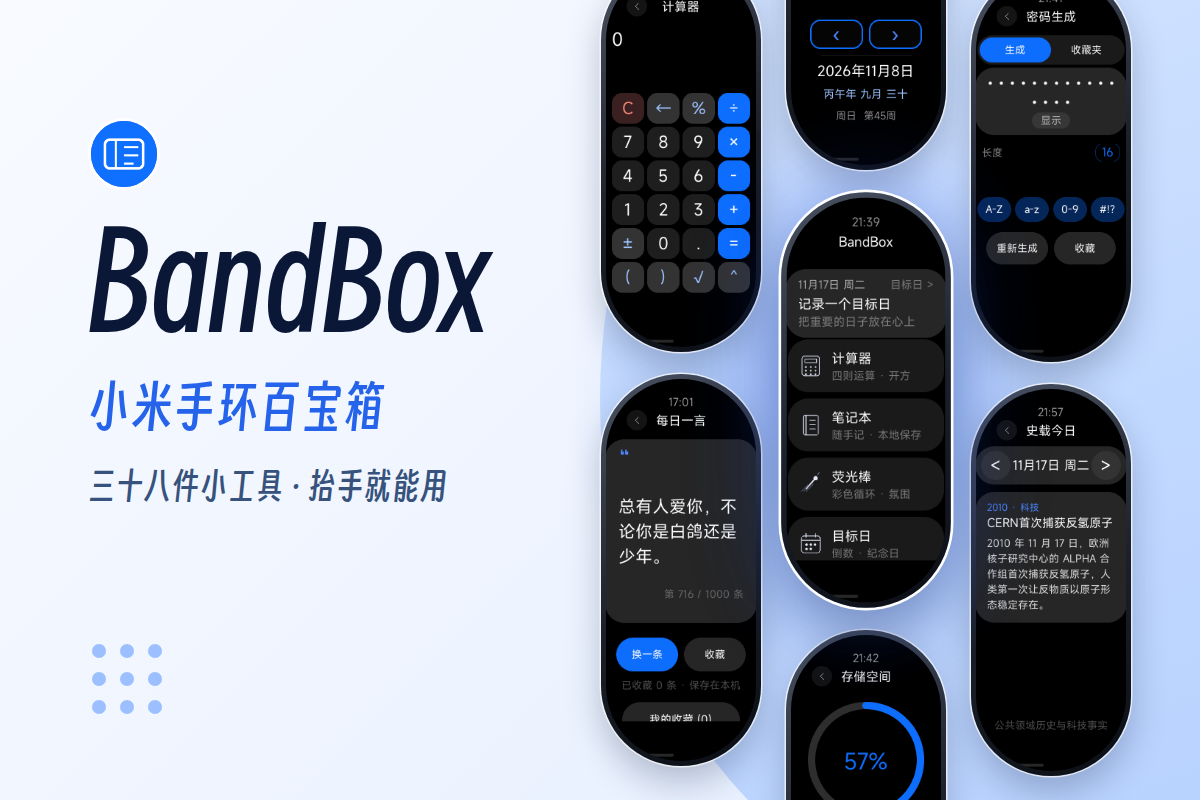
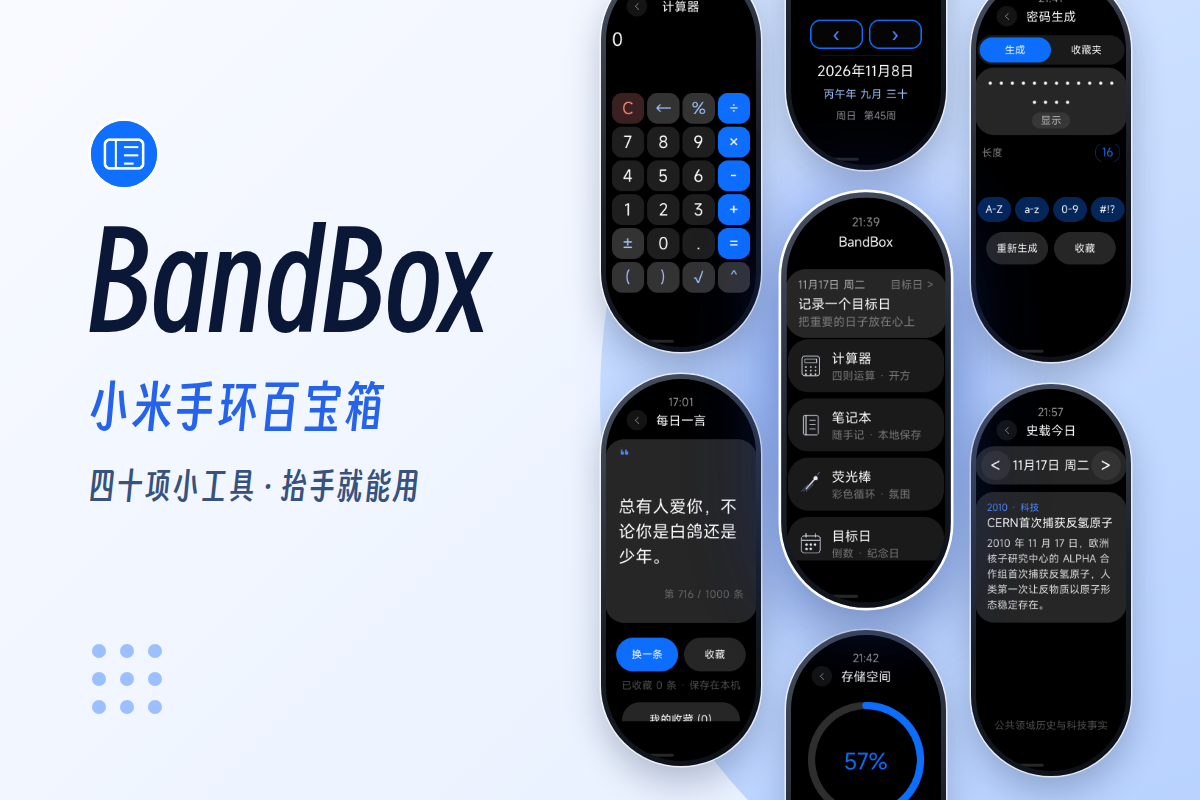
docs(release): 0.1.1/0.1.2 发布说明工具数订正 + 头图定稿
- 工具数口径统一为 src/data/apps.js 的 40：0.1.0 正式版 32 → 0.1.0 Beta 线 37 →
  0.1.1 = 37（未加工具）→ 0.1.2 = 40（魔方计时 / 桌面伴侣 / 快捷色卡）
- 头图 1200x800 重出（与控制台上传的 media/ 头图同一份字节）

Changed region(s): [[0.1233, 0.5625, 0.37, 0.625], [0.0617, 0.5938, 0.0925, 0.625]]

diff --git a/BandBox 头图 1200x800.html b/BandBox 头图 1200x800.html
@@ -206,7 +206,7 @@
 
       <div class="cn-title">小米手环百宝箱</div>
 
-      <p class="subtitle">三十八件小工具 · 抬手就能用</p>
+      <p class="subtitle">四十项小工具 · 抬手就能用</p>
     </div>
 
     <div class="dot-grid">

diff --git a/release/BandBox-0.1.2/说明.md b/release/BandBox-0.1.2/说明.md
@@ -9,7 +9,7 @@
 
 > **本版定位**：`0.1.1`（换源后的正式发行版）之后的第一个功能版本，也是**第一个三机型正式发行版** —— 小米手环 9 / 10 / 10 NFC / 11 / 11 NFC（212×520 跑道屏）、小米手环 9 Pro / 10 Pro（336×480 矩形屏）、小米手环 9（192×490 胶囊屏）各一个 rpk，包名同为 `com.lkjhg.bandbox`，按机型选用。
 >
-> 四条主线：① **体感内核重构**（就绪判定从相对夹角改成绝对姿态）并长出「魔方计时」；② 新增「**桌面伴侣**」横屏时钟（自适应双版式 + 电量徽标 + 秒钟开关）与「**快捷色卡**」，工具总数 38 → **40**；③ 首页新增「**工具分类**」与「**目标日不常驻**」两种布局；④ **包体瘦身** —— 拆除 12 页内联输入法、合并 3 个二级页、新增统一数字键盘页，生产包比瘦身前小 **139 KB**。
+> 四条主线：① **体感内核重构**（就绪判定从相对夹角改成绝对姿态）并长出「魔方计时」；② 新增「**桌面伴侣**」横屏时钟（自适应双版式 + 电量徽标 + 秒钟开关）与「**快捷色卡**」，工具总数较 0.1.1 的 **37** 个新增 3 个（魔方计时 / 桌面伴侣 / 快捷色卡）→ **40**；③ 首页新增「**工具分类**」与「**目标日不常驻**」两种布局；④ **包体瘦身** —— 拆除 12 页内联输入法、合并 3 个二级页、新增统一数字键盘页，生产包比瘦身前小 **139 KB**。
 >
 > 手环端快应用与手机插件同号（均为 `0.1.2`）。本版是 **production 打包**（JS 压缩混淆、剔除 `.map`、自签发行证书签名），可对外分发。
 
@@ -85,7 +85,7 @@
 ## 七、其它
 
 - 宣传资源换新：头图与 8 张 Preview 全部改为 PNG 实体文件（原 jpg 引用已删除），README / README_EN 的预览区改为按机型分组，`manifest_v2.json` 的 `preview[]` 同步指向 8 张 PNG。
-- 工具数订正为 **40**（此前 README 正文写 37、表格写 36、发布说明写 38，以 `src/data/apps.js` 为准）。
+- 工具数订正为 **40**（此前 README 正文写 37、表格写 36、发布说明写 38，以 `src/data/apps.js` 为准）。**版本线上的工具数**：0.1.0 正式发行版 32 → 0.1.0 的 Beta 线（轻量随机 / 节拍测定 / 日期计算 / 计数器 / 体感游戏）37 → **0.1.1 仍是 37**（换源 + Pro 适配，未加工具）→ 本版 +魔方计时 +桌面伴侣 +快捷色卡 = **40**。「进制转换」是单位换算里的第 13 类，不单列为工具、不占名额。
 
 ## 八、门禁与校验
 

diff --git a/notes/0.1.2.md b/notes/0.1.2.md
@@ -1,6 +1,6 @@
 > **本版定位**：`0.1.1`（换源后的正式发行版）之后的第一个功能版本，也是**第一个三机型正式发行版** —— 小米手环 9 / 10 / 10 NFC / 11 / 11 NFC（212×520 跑道屏）、小米手环 9 Pro / 10 Pro（336×480 矩形屏）、小米手环 9（192×490 胶囊屏）各一个 rpk，包名同为 `com.lkjhg.bandbox`，按机型选用。
 >
-> 四条主线：① **体感内核重构**（就绪判定从相对夹角改成绝对姿态）并长出「魔方计时」；② 新增「**桌面伴侣**」横屏时钟（自适应双版式 + 电量徽标 + 秒钟开关）与「**快捷色卡**」，工具总数 38 → **40**；③ 首页新增「**工具分类**」与「**目标日不常驻**」两种布局；④ **包体瘦身** —— 拆除 12 页内联输入法、合并 3 个二级页、新增统一数字键盘页，生产包比瘦身前小 **139 KB**。
+> 四条主线：① **体感内核重构**（就绪判定从相对夹角改成绝对姿态）并长出「魔方计时」；② 新增「**桌面伴侣**」横屏时钟（自适应双版式 + 电量徽标 + 秒钟开关）与「**快捷色卡**」，工具总数较 0.1.1 的 **37** 个新增 3 个（魔方计时 / 桌面伴侣 / 快捷色卡）→ **40**；③ 首页新增「**工具分类**」与「**目标日不常驻**」两种布局；④ **包体瘦身** —— 拆除 12 页内联输入法、合并 3 个二级页、新增统一数字键盘页，生产包比瘦身前小 **139 KB**。
 >
 > 手环端快应用与手机插件同号（均为 `0.1.2`）。本版是 **production 打包**（JS 压缩混淆、剔除 `.map`、自签发行证书签名），可对外分发。
 
@@ -76,7 +76,7 @@
 ## 七、其它
 
 - 宣传资源换新：头图与 8 张 Preview 全部改为 PNG 实体文件（原 jpg 引用已删除），README / README_EN 的预览区改为按机型分组，`manifest_v2.json` 的 `preview[]` 同步指向 8 张 PNG。
-- 工具数订正为 **40**（此前 README 正文写 37、表格写 36、发布说明写 38，以 `src/data/apps.js` 为准）。
+- 工具数订正为 **40**（此前 README 正文写 37、表格写 36、发布说明写 38，以 `src/data/apps.js` 为准）。**版本线上的工具数**：0.1.0 正式发行版 32 → 0.1.0 的 Beta 线（轻量随机 / 节拍测定 / 日期计算 / 计数器 / 体感游戏）37 → **0.1.1 仍是 37**（换源 + Pro 适配，未加工具）→ 本版 +魔方计时 +桌面伴侣 +快捷色卡 = **40**。「进制转换」是单位换算里的第 13 类，不单列为工具、不占名额。
 
 ## 八、门禁与校验
 

diff --git a/notes/0.1.1.md b/notes/0.1.1.md
@@ -30,6 +30,7 @@
 
 - **小米手环 9 Pro / 10 Pro 正式支持**（336 × 480）：新增第二套设备 profile，构建期物化打包，内置键盘全宽重构、首页网格重排、歌词编辑页键盘态布局、快捷生码与跑马灯等页面按宽屏重排。
 - **6 个新工具**（工具总数 30 → 36）：计数器、日期计算、轻量随机、节拍测定、体感手枪、空气投篮（体感游戏）。
+- **【工具数订正 · 2026-11-21】** 上条与本版定位里的「6 个新工具」都不准，以 `src/data/apps.js` 为准：**0.1.1 发行时工具数是 37 个，本版一个新工具都没加**（本版主线是换源 + 自签证书 + Pro 适配 + 一批交互修复）。那几项里「体感手枪 + 空气投篮」是同一个工具「体感游戏」，合计 5 个，而且都发布在 **0.1.0 的 Beta 线**（0.1.0-224 起：轻量随机、节拍测定 → 日期计算 → 计数器 → 0.1.0-255：体感游戏），不是 0.1.1 的产物；起点 0.1.0 正式发行版（versionCode 223）本身就有 **32** 个工具。落在 0.1.1 之后的三个新工具是 0.1.2 的「魔方计时」「桌面伴侣」「快捷色卡」，0.1.2 工具总数 **40**。
 - **体感游戏**：灵敏度三档（低 / 中 / 高）在选择页底部设置并记忆；新增体感统计页（今日 / 总计，横滑翻面）；就绪振拉长到 1 s。
 - **计算器进阶**：科学函数、精确根式、精确分数、十类方程 / 不等式求解，页面改为纵向滚动。
 - **快捷生码增强**：WiFi 表单生成、收藏夹、手机插件粘贴扫码文本下发收藏（`bandbox-qr` 协议）。

diff --git a/release/BandBox-0.1.1/说明.md b/release/BandBox-0.1.1/说明.md
@@ -39,6 +39,7 @@
 
 - **小米手环 9 Pro / 10 Pro 正式支持**（336 × 480）：新增第二套设备 profile，构建期物化打包，内置键盘全宽重构、首页网格重排、歌词编辑页键盘态布局、快捷生码与跑马灯等页面按宽屏重排。
 - **6 个新工具**（工具总数 30 → 36）：计数器、日期计算、轻量随机、节拍测定、体感手枪、空气投篮（体感游戏）。
+- **【工具数订正 · 2026-11-21】** 上条与本版定位里的「6 个新工具」都不准，以 `src/data/apps.js` 为准：**0.1.1 发行时工具数是 37 个，本版一个新工具都没加**（本版主线是换源 + 自签证书 + Pro 适配 + 一批交互修复）。那几项里「体感手枪 + 空气投篮」是同一个工具「体感游戏」，合计 5 个，而且都发布在 **0.1.0 的 Beta 线**（0.1.0-224 起：轻量随机、节拍测定 → 日期计算 → 计数器 → 0.1.0-255：体感游戏），不是 0.1.1 的产物；起点 0.1.0 正式发行版（versionCode 223）本身就有 **32** 个工具。落在 0.1.1 之后的三个新工具是 0.1.2 的「魔方计时」「桌面伴侣」「快捷色卡」，0.1.2 工具总数 **40**。
 - **体感游戏**：灵敏度三档（低 / 中 / 高）在选择页底部设置并记忆；新增体感统计页（今日 / 总计，横滑翻面）；就绪振拉长到 1 s。
 - **计算器进阶**：科学函数、精确根式、精确分数、十类方程 / 不等式求解，页面改为纵向滚动。
 - **快捷生码增强**：WiFi 表单生成、收藏夹、手机插件粘贴扫码文本下发收藏（`bandbox-qr` 协议）。
